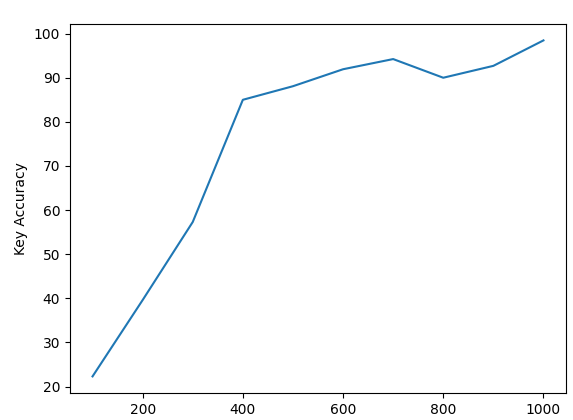
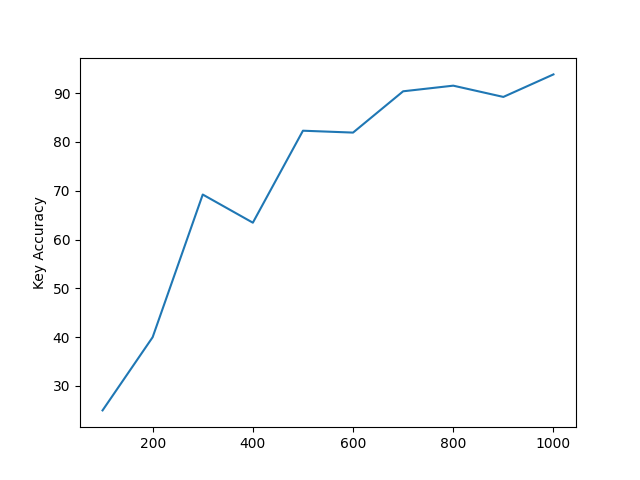
Updated testing

diff --git a/solver/tester.py b/solver/tester.py
@@ -4,6 +4,17 @@ import random
 import numpy as np
 from jakobsens import Solver
 from const import LETTERS, LETTERS_BY_FREQUENCY
+from openai import OpenAI
+from dotenv import load_dotenv
+import os
+
+load_dotenv()
+
+API_KEY = os.getenv("API_KEY")
+
+client = OpenAI(
+    api_key=API_KEY
+)
 
 # warning: computationally expensive
 # takes a long time to run!
@@ -19,12 +30,8 @@ class Tester:
         targetKey = ''.join(random.sample(LETTERS, 26))
 
         # create test plaintext
-        s = ''
-        while len(s) < size:
-            word = random.choice(this.source)
-            for ch in word:
-                if ch.isalpha():
-                    s += ch.upper()
+        s = this.getText(str(size))
+        print(len(s))
     
         # encrypt
         # create key dict
@@ -61,13 +68,24 @@ class Tester:
         keyAcc = (numCorrect / 26) * 100
 
         numCorrect = 0
-        print
         for i in range(len(c)):
             if deKey[c[i]] == s[i]:
                 numCorrect += 1
         textAcc = (numCorrect / len(s)) * 100
 
         return keyAcc, textAcc
+
+    def getText(this, size):
+        
+        completion = client.chat.completions.create(
+            model="gpt-4o-mini",
+            store=True,
+            messages=[
+                {"role": "user", "content": "Without saying anything else, generate a random text excerpt with exactly" + size + " characters."}
+    ]  
+)
+        print(completion.choices[0].message.content)
+        return [x.upper() for x in completion.choices[0].message.content if x.upper() in LETTERS]
 
 
 # gather data
@@ -78,6 +96,7 @@ for i in range(100, 1100, 100):
     kR = []
     tR = []
     for x in range(10):
+        print("Testing size: " + str(i) + " iteration: " + str(x))
         result = tester.test(i)
         kR.append(result[0])
         tR.append(result[1])

diff --git a/README.md b/README.md
@@ -1,5 +1,12 @@
 # Automated Cipher Solver
-A program to automatically solve a simple substitution cipher using frequency analysis, build with Python using Mat Plot Lib and Numpy.
+A program to automatically solve a simple substitution cipher using frequency analysis, built with Python using libraries such as Mat Plot Lib and Numpy and the OpenAI API.
+
+# Installation and Setup
+Clone this repository. You will need install python and all dependencies before hand.
+To use the cipher solver, run main.py and follow the prompts for whatever simple substitution ciphertext you would like to decrypt. 
+
+It may take multiple times, especially for smaller inputs.
+
 
 # Testing Results
 ![alt text](https://github.com/cswmm/JakobsensCipherSolver/blob/main/keyAcc.png?raw=true)
@@ -7,21 +14,22 @@ A program to automatically solve a simple substitution cipher using frequency an
 
 Above is the result of testing the accuracy of the solver with respect to the number of characters in the ciphertext. With the text size, the decrypted plaintext accuracy increases linearly. In the end, this implementation was able to consistently achieve above 90% text decryption accuracy with large enough inputs.
 
-# Installation and Setup
-Clone this repository. You will need Mat Plot Lib and Numpy installed.
-To use the cipher solver, run main.py and follow the prompts for whatever simple substitution ciphertext you would like to decrypt. 
-
-It may take multiple times, especially for smaller inputs.
+Something interesting was the dip from 300 characters to 400 characters. 
+Theoretically, accuracy should only increase with sample sizes. 
+These tests were AI generated, though, which let to some similar phrases when it was the same sample size. 
+While these samples were not deterministic, they also weren't truly random.
 
 # Reflection
-This project was just a fun idea I had while doing hopework in an information security class, where I had to solve this cipher by hand. I knew there must be a better way of doing it, or at least a way to automate it, so I decided to implement Jakobsen's algorithm.
+This project was just a way to automate my hopework in an information security class,
+ where I had to solve this cipher somewhat by hand. 
 
-I set out to build a tool to do my homework for me, essentially, but also a way to get some Python experience and apply what I have been self teaching recently.
+One of the main challenges I ran into was debugging. 
+I implemented the algorithm all at once, which at that point had so many moving parts it was a lot to 
+dig through to find what was going wrong.
 
-One of the main challenges I ran into was debugging. I implemented the algorithm all at once, which at that point had so many moving parts it was a lot to dig through to find what was going wrong.
-
-At the end of the day, I was able to apply Python, a new language, and libraries such as Mat Plot Lib and Numpy. In the next iteration I plan on applying more OOP design principles and testing incrementally to quicken the design process.
-
+In the future, a more modular implementation would have been much easier for debugging. On top of this, my conventions were
+a little messy in this project. While it was nice working solo, I wish I had spent more time learning python naming conventions
+so to make cleaner code.
 
 # Sources:
 Jakobsen, Thomas. (1995). A fast method for cryptanalysis of substitution ciphers. Cryptologia. 19. 10.1080/0161-119591883944. 
